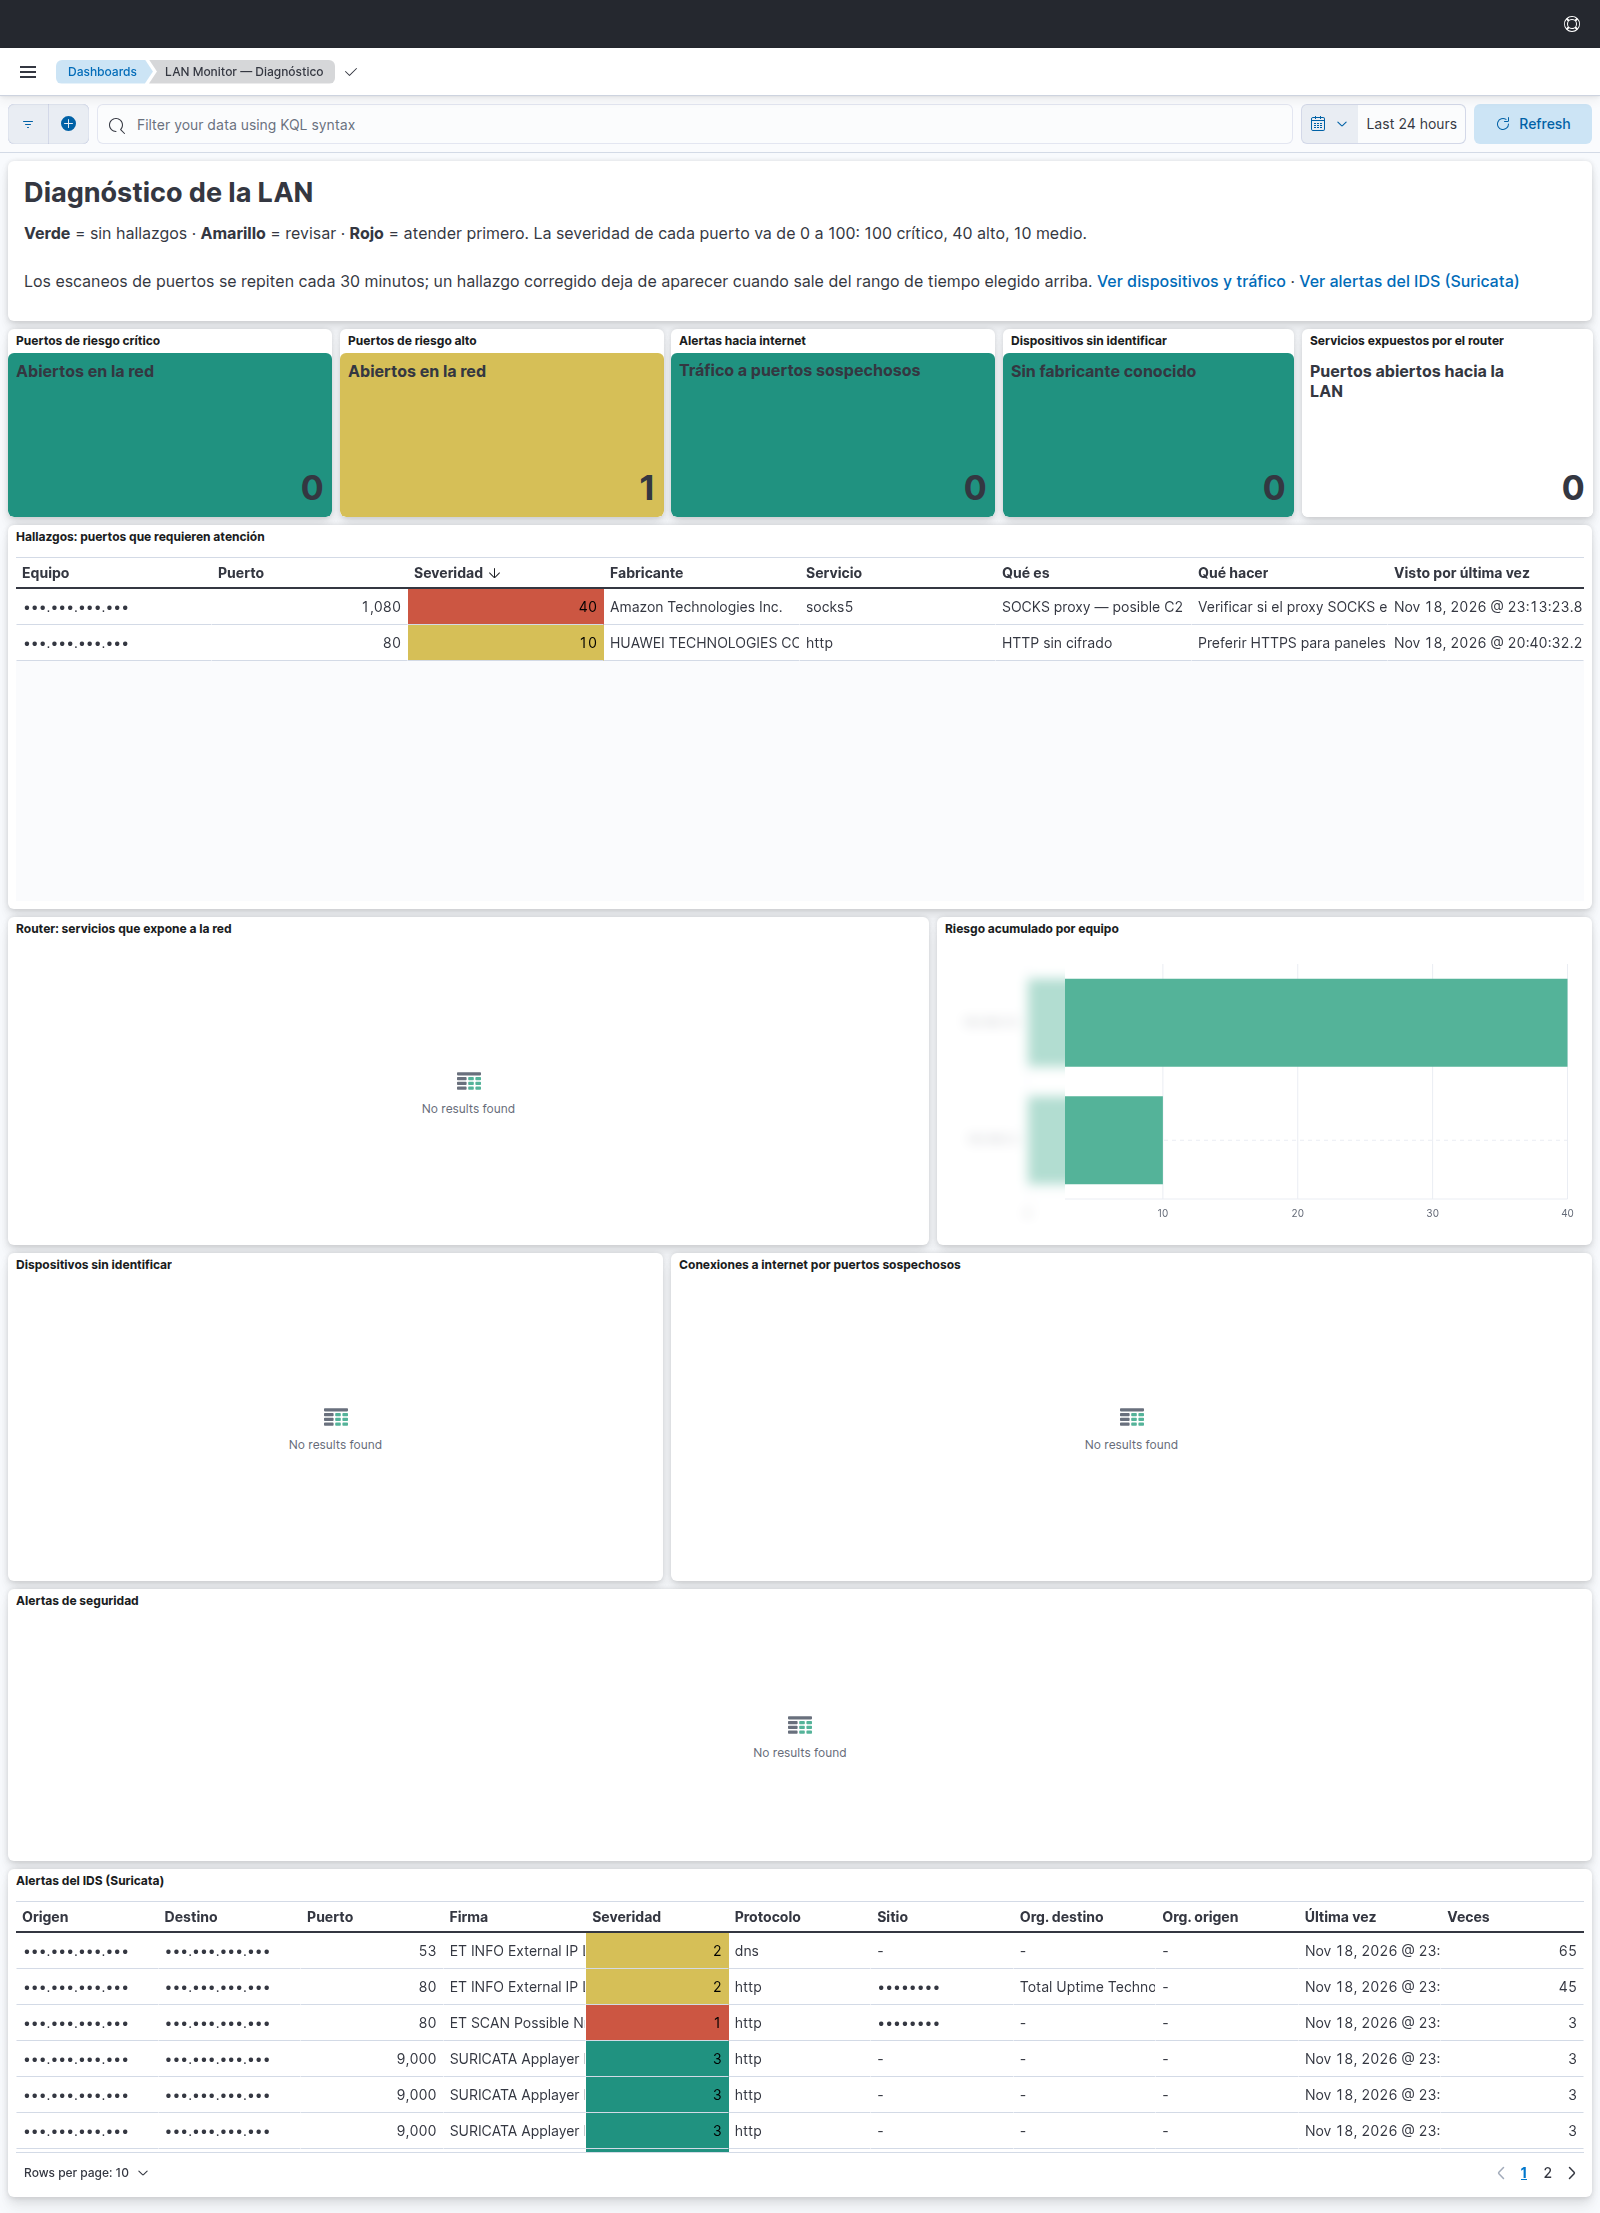
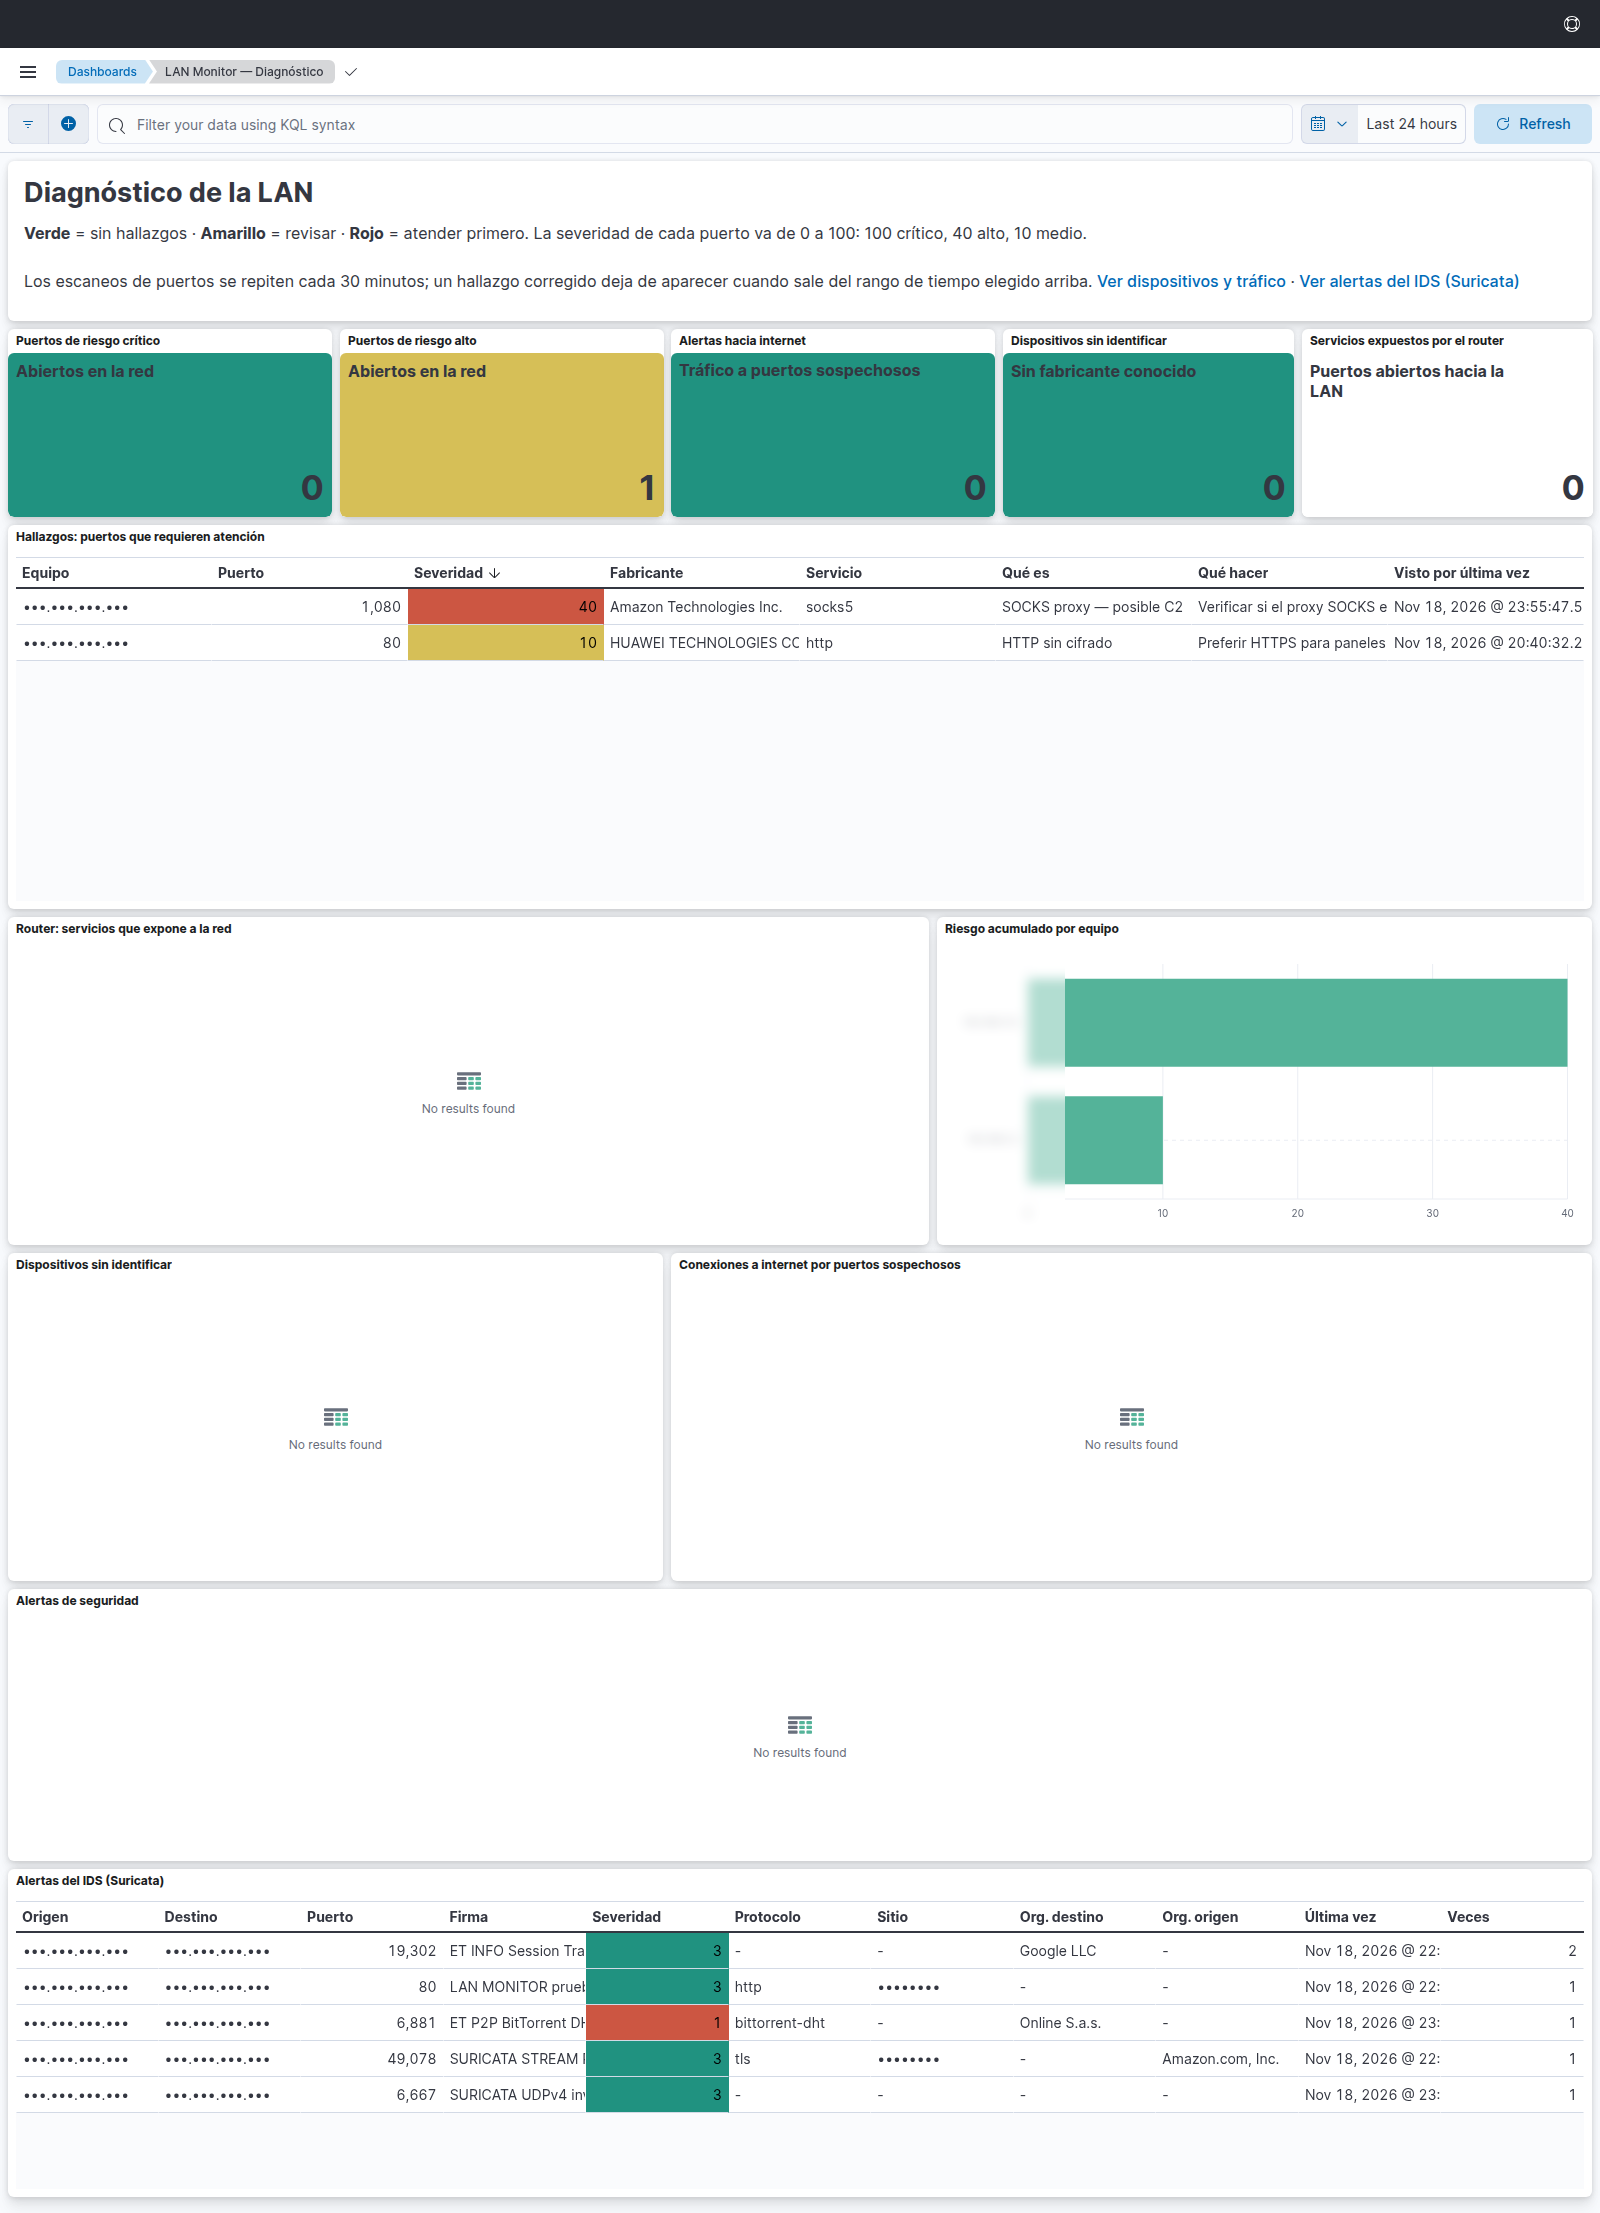
Los gráficos no muestran el tráfico de los propios escáneres
- Logstash marca con lanmon.self_generated (y el motivo en
  lanmon.self_reason) las alertas de Suricata que provocan los escaneos
  del equipo indicado en LAN_SELF_IPS: consultas a ip-api.com y el
  escaneo nmap hacia la LAN con sus anomalías de protocolo. Una alerta
  de otra categoría o de otro equipo de la LAN se sigue mostrando.
- El dashboard del IDS y la tabla del Diagnóstico excluyen las marcadas.
- La tabla de dominios excluye las consultas inversas *.arpa del sniffer
  (~40% de los registros DNS).
- Los datos no se borran: se ven en Discover.
- Prueba con alertas propias de nmap e ip-api y un ataque entrante desde
  la LAN que no debe esconderse. Capturas del README actualizadas.

Changed region(s): [[0.3125, 0.873, 0.4688, 0.9977], [0.6562, 0.873, 0.6875, 0.9042]]

diff --git a/elk/kibana/build_dashboard.py b/elk/kibana/build_dashboard.py
@@ -165,12 +165,14 @@ def lens(obj_id, title, vis_type, columns, visualization, query):
 Q_DEVICE = 'event.dataset : "devices.device"'
 Q_HOST   = 'event.dataset : "traffic.host"'
 Q_CONN   = 'event.dataset : "traffic.connection"'
-Q_DNS    = 'event.dataset : "traffic.dns"'
+# Las consultas inversas (*.arpa) las hace el propio sniffer al buscar el nombre de cada IP.
+Q_DNS    = 'event.dataset : "traffic.dns" and not dns.question.name : *.arpa'
 Q_PORT   = 'event.dataset : "ports.port"'
 # Broadcast y multicast no salen de la LAN: no cuentan como alerta.
 Q_ALERT  = 'event.dataset : "alert" and not destination.scope : ("broadcast" or "multicast")'
 Q_SUMMARY = 'event.dataset : "traffic.summary"'
-Q_IDS    = 'event.dataset : "ids.alert"'
+# Sin las alertas que provocan los propios escáneres (Logstash las marca; ver LAN_SELF_IPS).
+Q_IDS    = 'event.dataset : "ids.alert" and not lanmon.self_generated : true'
 
 # (lens, x, y, w, h) — la grilla de Kibana tiene 48 columnas
 PANELS = [
@@ -378,7 +380,9 @@ IDS_PANELS = [
         "## IDS — Alertas de Suricata\n"
         "Suricata revisa el tráfico de este equipo contra miles de reglas (malware, escaneos, C2, exploits). "
         "**Severidad 1** = alta (rojo), **2** = media (amarillo), **3** = baja (verde). "
-        "Solo ve el tráfico que pasa por la interfaz donde escucha.\n\n"
+        "Solo ve el tráfico que pasa por la interfaz donde escucha. "
+        "No se muestran las alertas que provocan los propios escáneres (nmap, consultas a ip-api); "
+        "para verlas, busca `lanmon.self_generated : true` en Discover.\n\n"
         "[Ver diagnóstico](/app/dashboards#/view/lanmon-diagnostico) · "
         "[Ver dispositivos y tráfico](/app/dashboards#/view/lanmon-overview)"), 0, 0, 48, 5),
 

diff --git a/tests/test_pipeline.py b/tests/test_pipeline.py
@@ -57,6 +57,8 @@ def run_logstash(work: Path, events: list[dict]) -> list[dict]:
         ["docker", "run", "--rm", "-i", "--network", "none",
          "-e", "XPACK_MONITORING_ENABLED=false", "-e", "PIPELINE_WORKERS=1",
          "-e", "XPACK_GEOIP_DOWNLOADER_ENABLED=false",
+         # IP "propia" de la muestra de Suricata: sus escaneos se marcan como autogenerados.
+         "-e", "LAN_SELF_IPS=192.168.1.50",
          "-e", "LS_JAVA_OPTS=-Xms256m -Xmx256m",
          "-v", f"{pipe}:/usr/share/logstash/pipeline:ro", "-v", f"{out}:/out",
          f"docker.elastic.co/logstash/logstash:{VERSION}"],
@@ -137,8 +139,11 @@ def main() -> int:
     check("alerta con organización del destino", all("as" in a["destination"] for a in alerts), True)
 
     ids = [r for r in rows if r["event"]["dataset"] == "ids.alert"]
-    check("Suricata: alertas (dos distintas, una repetida)", len(ids), 3)
-    check("Suricata: la repetida tiene el mismo _id", len({r["doc_id"] for r in ids}), 2)
+    check("Suricata: alertas (cinco distintas, una repetida)", len(ids), 6)
+    check("Suricata: la repetida tiene el mismo _id", len({r["doc_id"] for r in ids}), 5)
+    own = {r["rule"]["id"]: r.get("lanmon", {}).get("self_reason") for r in ids}
+    check("Suricata: autogeneradas (nmap a la LAN, ip-api) y no las demás", own,
+          {"9000001": None, "2100498": None, "2024364": "escaneo-lan", "2054141": "consulta-ip-api", "2010935": None})
     test = next(r for r in ids if r["rule"]["id"] == "9000001")
     root = next(r for r in ids if r["rule"]["id"] == "2100498")
     check("Suricata: hora con zona → UTC", test["@timestamp"][:19], "2026-10-01T14:40:00")

diff --git a/README.md b/README.md
@@ -108,6 +108,13 @@ sudo systemctl restart suricata
 
 Suricata solo ve el tráfico que pasa por esa interfaz: por WiFi o sin un puerto espejo en el switch, es el tráfico de este equipo y no el del resto de la LAN.
 
+**Tráfico de los propios escáneres.** Los dashboards no muestran lo que generan las herramientas del proyecto:
+
+- Con `LAN_SELF_IPS` definida, Logstash marca con `lanmon.self_generated` (y el motivo en `lanmon.self_reason`) las alertas de Suricata que provocan los escaneos desde ese equipo: las consultas a ip-api.com y el escaneo nmap hacia la LAN con las anomalías de protocolo que produce. Una alerta de otra categoría, o que venga de otro equipo, se sigue mostrando.
+- La tabla de dominios DNS no incluye las consultas inversas (`*.arpa`), que hace el sniffer al buscar el nombre de cada IP.
+
+Los datos no se borran: en Discover se ven con `lanmon.self_generated : true` o `dns.question.name : *.arpa`.
+
 ## Datos en Elasticsearch
 
 Índices mensuales `lanmon-<tipo>-AAAA.MM`. El campo `event.dataset` dice qué representa cada documento:
@@ -150,6 +157,7 @@ Nada está fijo en el código: los escáneres leen todo de variables de entorno 
 | `LAN_EXTERNAL_LOOKUPS` | `false` | Consultar `api.macvendors.com` e `ip-api.com` |
 | `LAN_RETENTION_MIN` | `720` | Minutos que se conservan los JSON crudos |
 | `LAN_SURICATA_LOG_DIR` | `/var/log/suricata` | Carpeta del `eve.json` de Suricata que lee Filebeat |
+| `LAN_SELF_IPS` | vacío | IP del equipo que escanea: las alertas de Suricata que provocan sus propios escaneos se marcan y no se grafican |
 | `LAN_FILEBEAT_IGNORE_OLDER`, `LAN_FILEBEAT_CLEAN_INACTIVE` | `6h`, `7h` | Filebeat no revisa los JSON más viejos que eso al reiniciar y los olvida. Si queda caído más tiempo, lo anterior no se carga |
 | `ELK_VERSION`, `ES_HEAP` | `8.13.0`, `1g` | Versión de Elastic y memoria de Elasticsearch |
 | `BIND_ADDR`, `ES_PORT`, `KIBANA_PORT` | `127.0.0.1`, `9200`, `5601` | Dónde se publican Elasticsearch y Kibana |

diff --git a/CHANGELOG.md b/CHANGELOG.md
@@ -10,6 +10,7 @@
 
 ### Mejoras
 
+- **Sin el tráfico de los propios escáneres en los gráficos.** Las alertas de Suricata que provocan los escaneos del equipo indicado en `LAN_SELF_IPS` (consultas a ip-api.com, nmap hacia la LAN) se marcan con `lanmon.self_generated` y el dashboard del IDS no las muestra. La tabla de dominios excluye las consultas inversas `*.arpa` del sniffer (eran ~40% de los registros DNS).
 - **Filebeat arranca rápido.** Ignora y olvida los JSON que no cambiaron en 6 horas (`LAN_FILEBEAT_IGNORE_OLDER`, `LAN_FILEBEAT_CLEAN_INACTIVE`). Antes, cada reinicio volvía a abrir los miles de archivos acumulados y tardaba ~20 minutos en llegar a los nuevos.
 
 ### Actualizar
